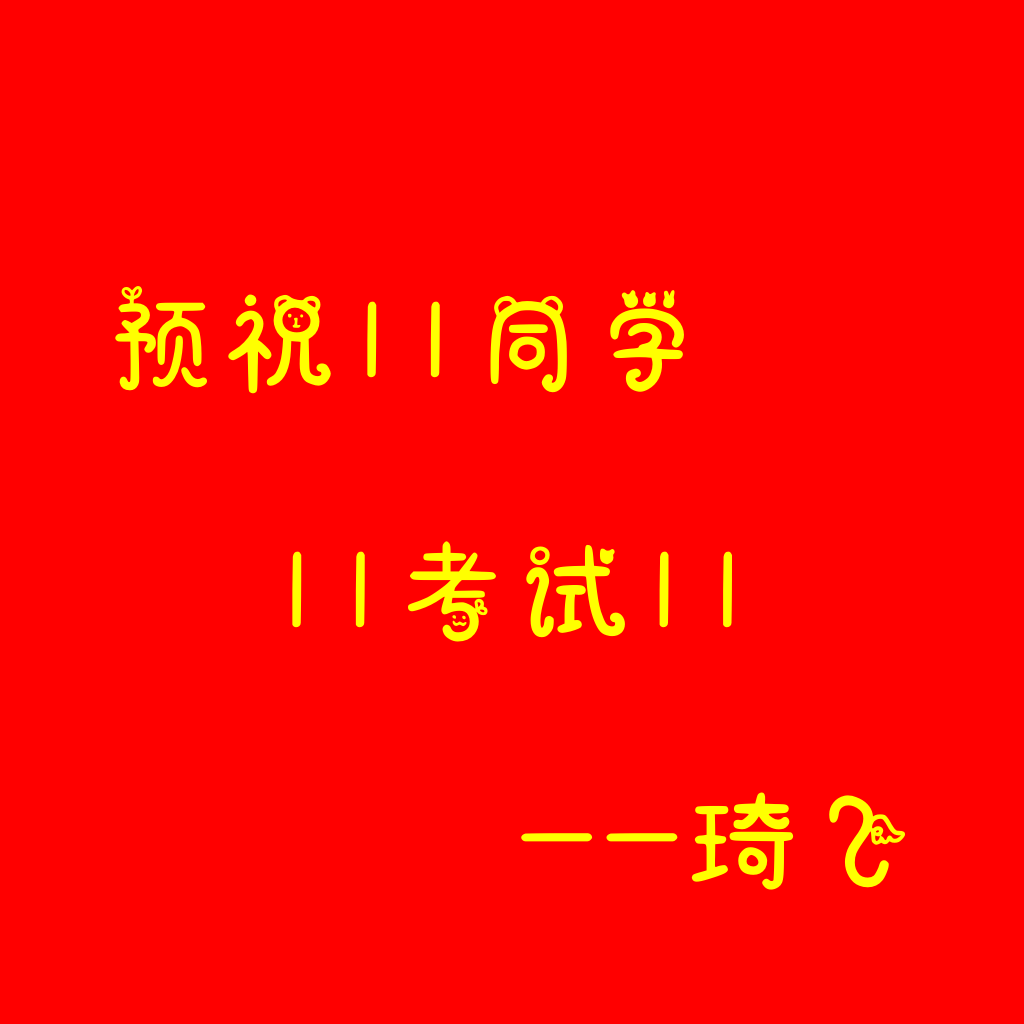
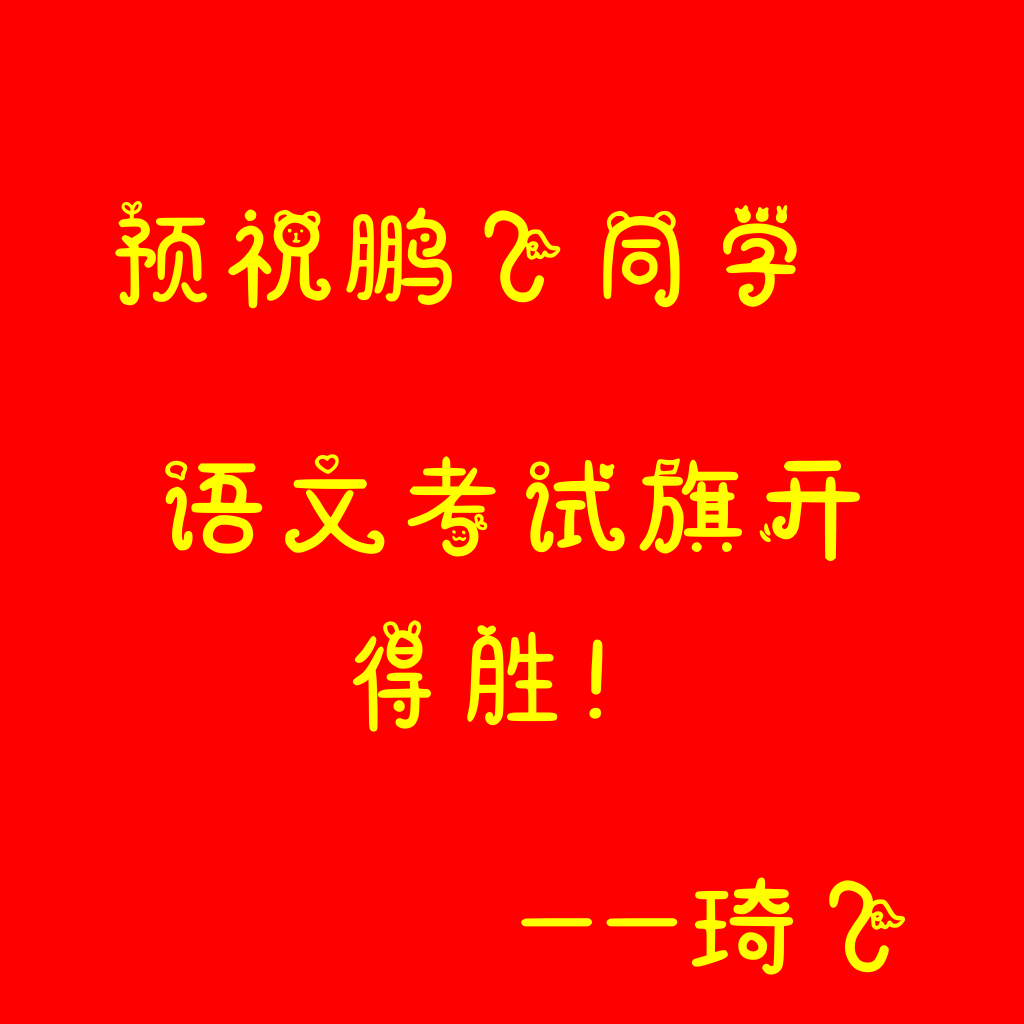
add wechat send message

diff --git a/blessing.go b/blessing.go
@@ -3,6 +3,7 @@ package main
 import (
 	"fmt"
 
+	"github.com/bean0303/blessing/wechat"
 	"github.com/fogleman/gg"
 )
 
@@ -12,13 +13,13 @@ func main() {
 	dc.SetRGB(1, 0, 0)
 	dc.Clear()
 	dc.SetRGB(1, 1, 0)
-	if err := dc.LoadFontFace("/home/tianpf/bytedance/千图小兔体.ttf", 120); err != nil {
+	if err := dc.LoadFontFace("../bytedance/千图小兔体.ttf", 120); err != nil {
 		panic(err)
 	}
 	var name, s, bless string
 	fmt.Println("请输入姓名，考试科目和祝福语：")
 	fmt.Scanf("%s %s %s", &name, &s, &bless)
-
+	//name, s, bless = "豆豆", "语文", "旗开得胜！"
 	s = fmt.Sprintf("%v考试%v", s, bless)
 
 	ellipsisWidth, _ := dc.MeasureString("...")
@@ -71,7 +72,14 @@ func main() {
 	lineX := S - sWidth - 100
 	lineY += lineSpace
 	dc.DrawString(sign, lineX, lineY)
-	dc.SavePNG("out.png")
+	_ = dc.SavePNG("out.png")
+	fmt.Printf("Send massage to %v\n", name)
+	wechat := wechat.Wechat{}
+	wechat.Login()
+	friend := wechat.Search(name)
+	fmt.Printf("friend：%v send succeed", friend)
+
+	wechat.SendImageMessage(friend, "out.png")
 }
 
 func TruncateText(dc *gg.Context, originalText string, maxTextWidth float64) string {
